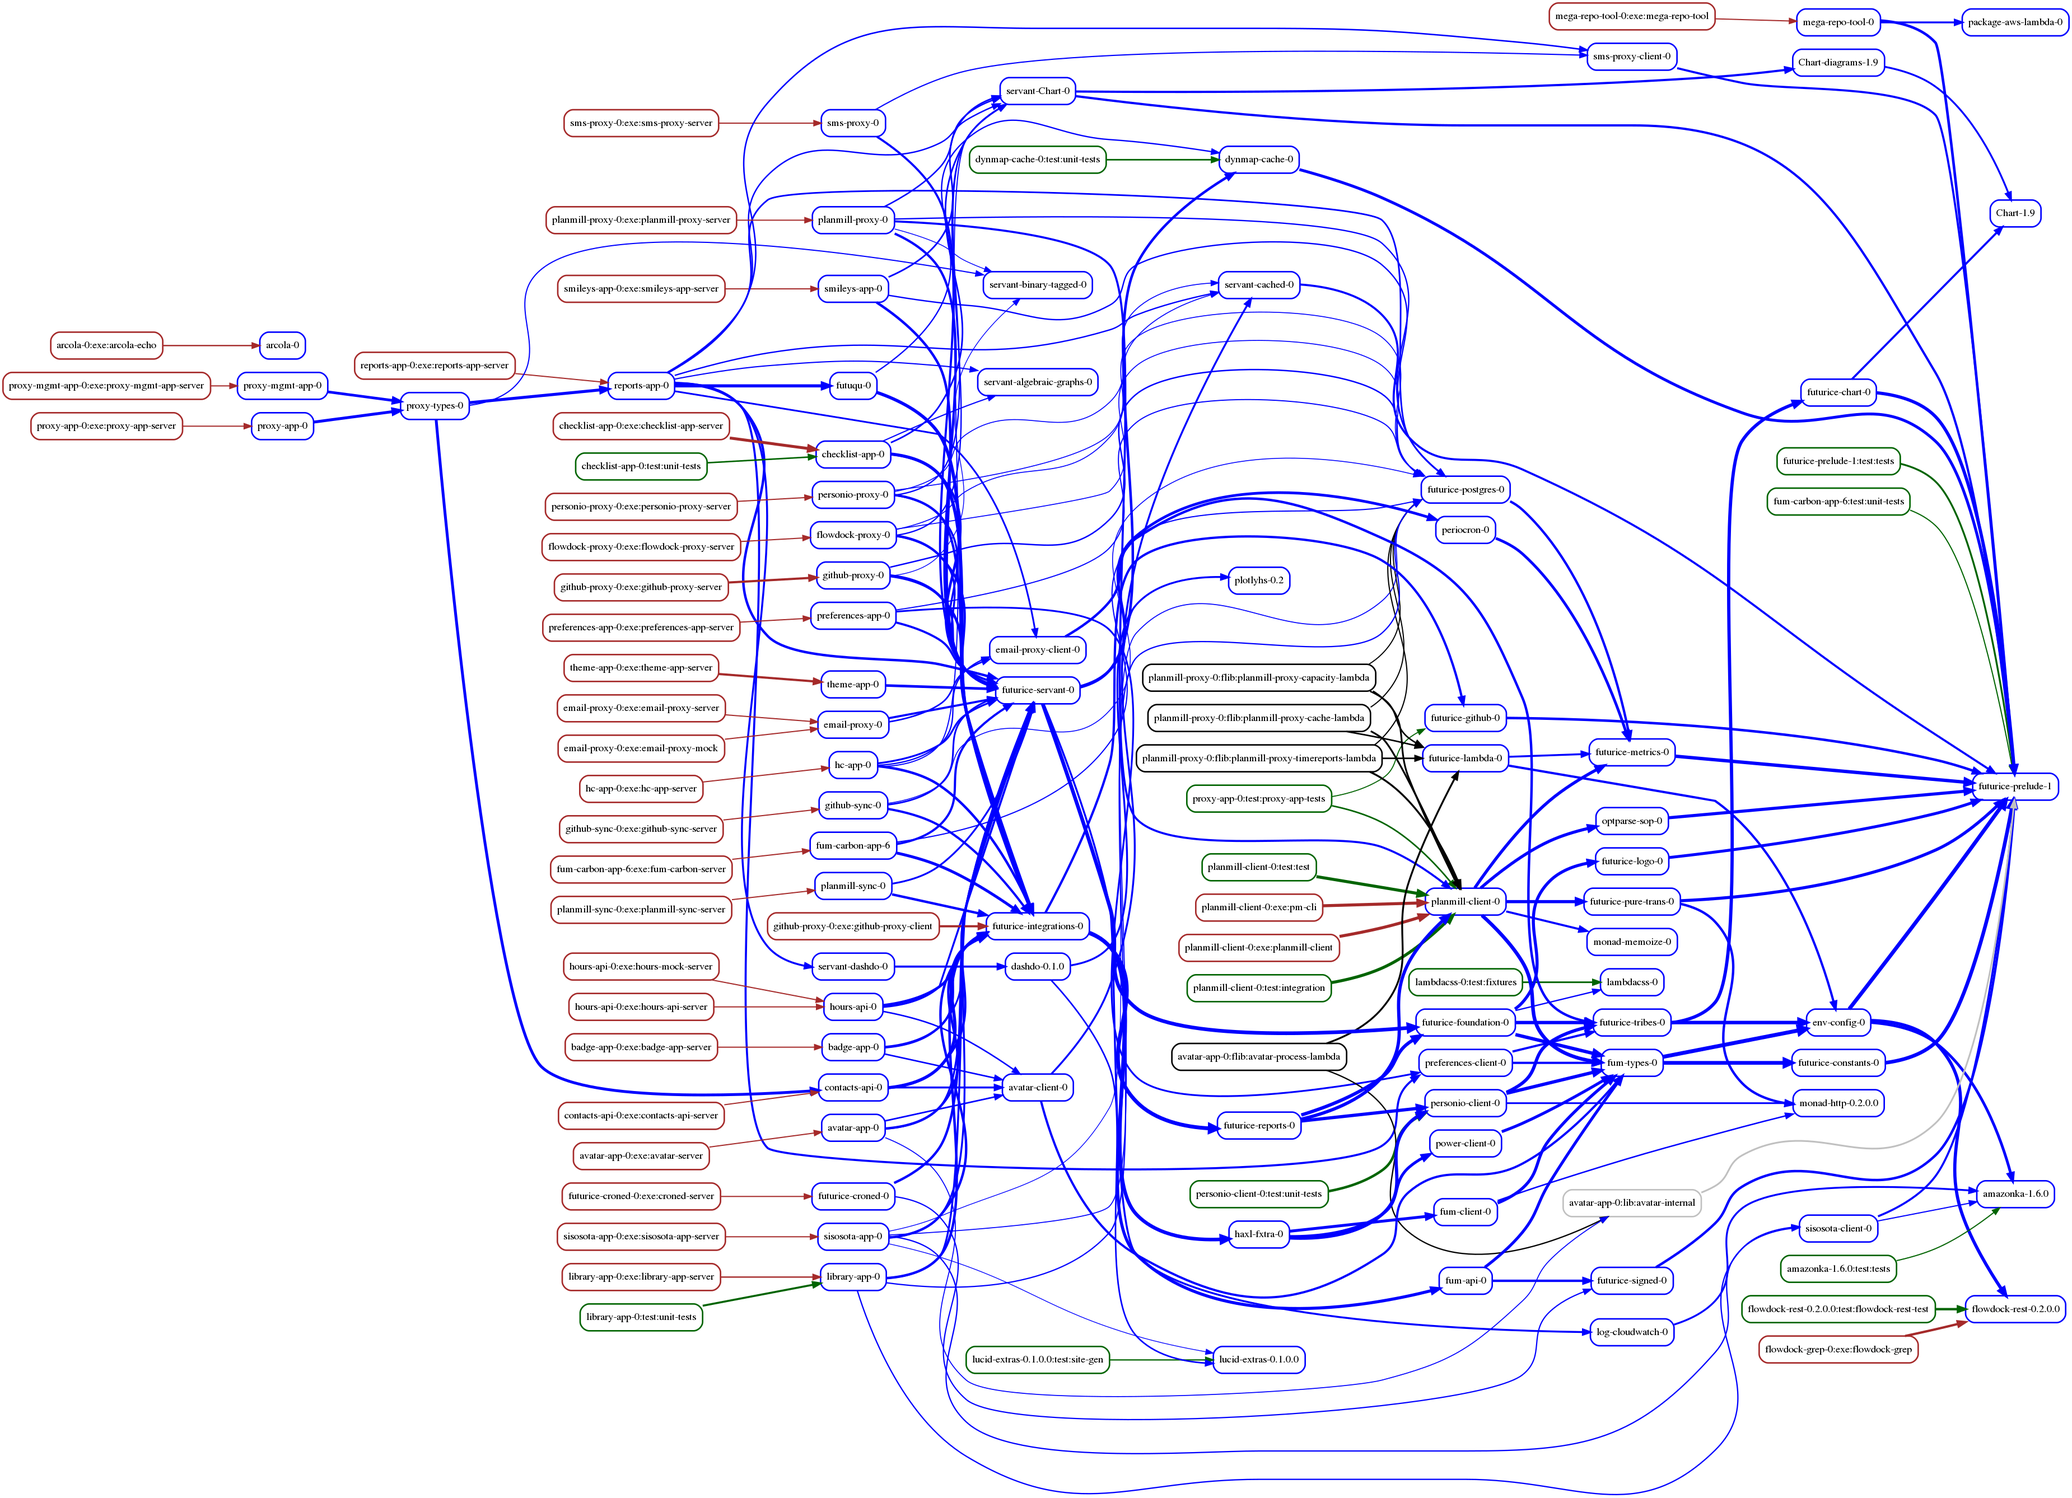
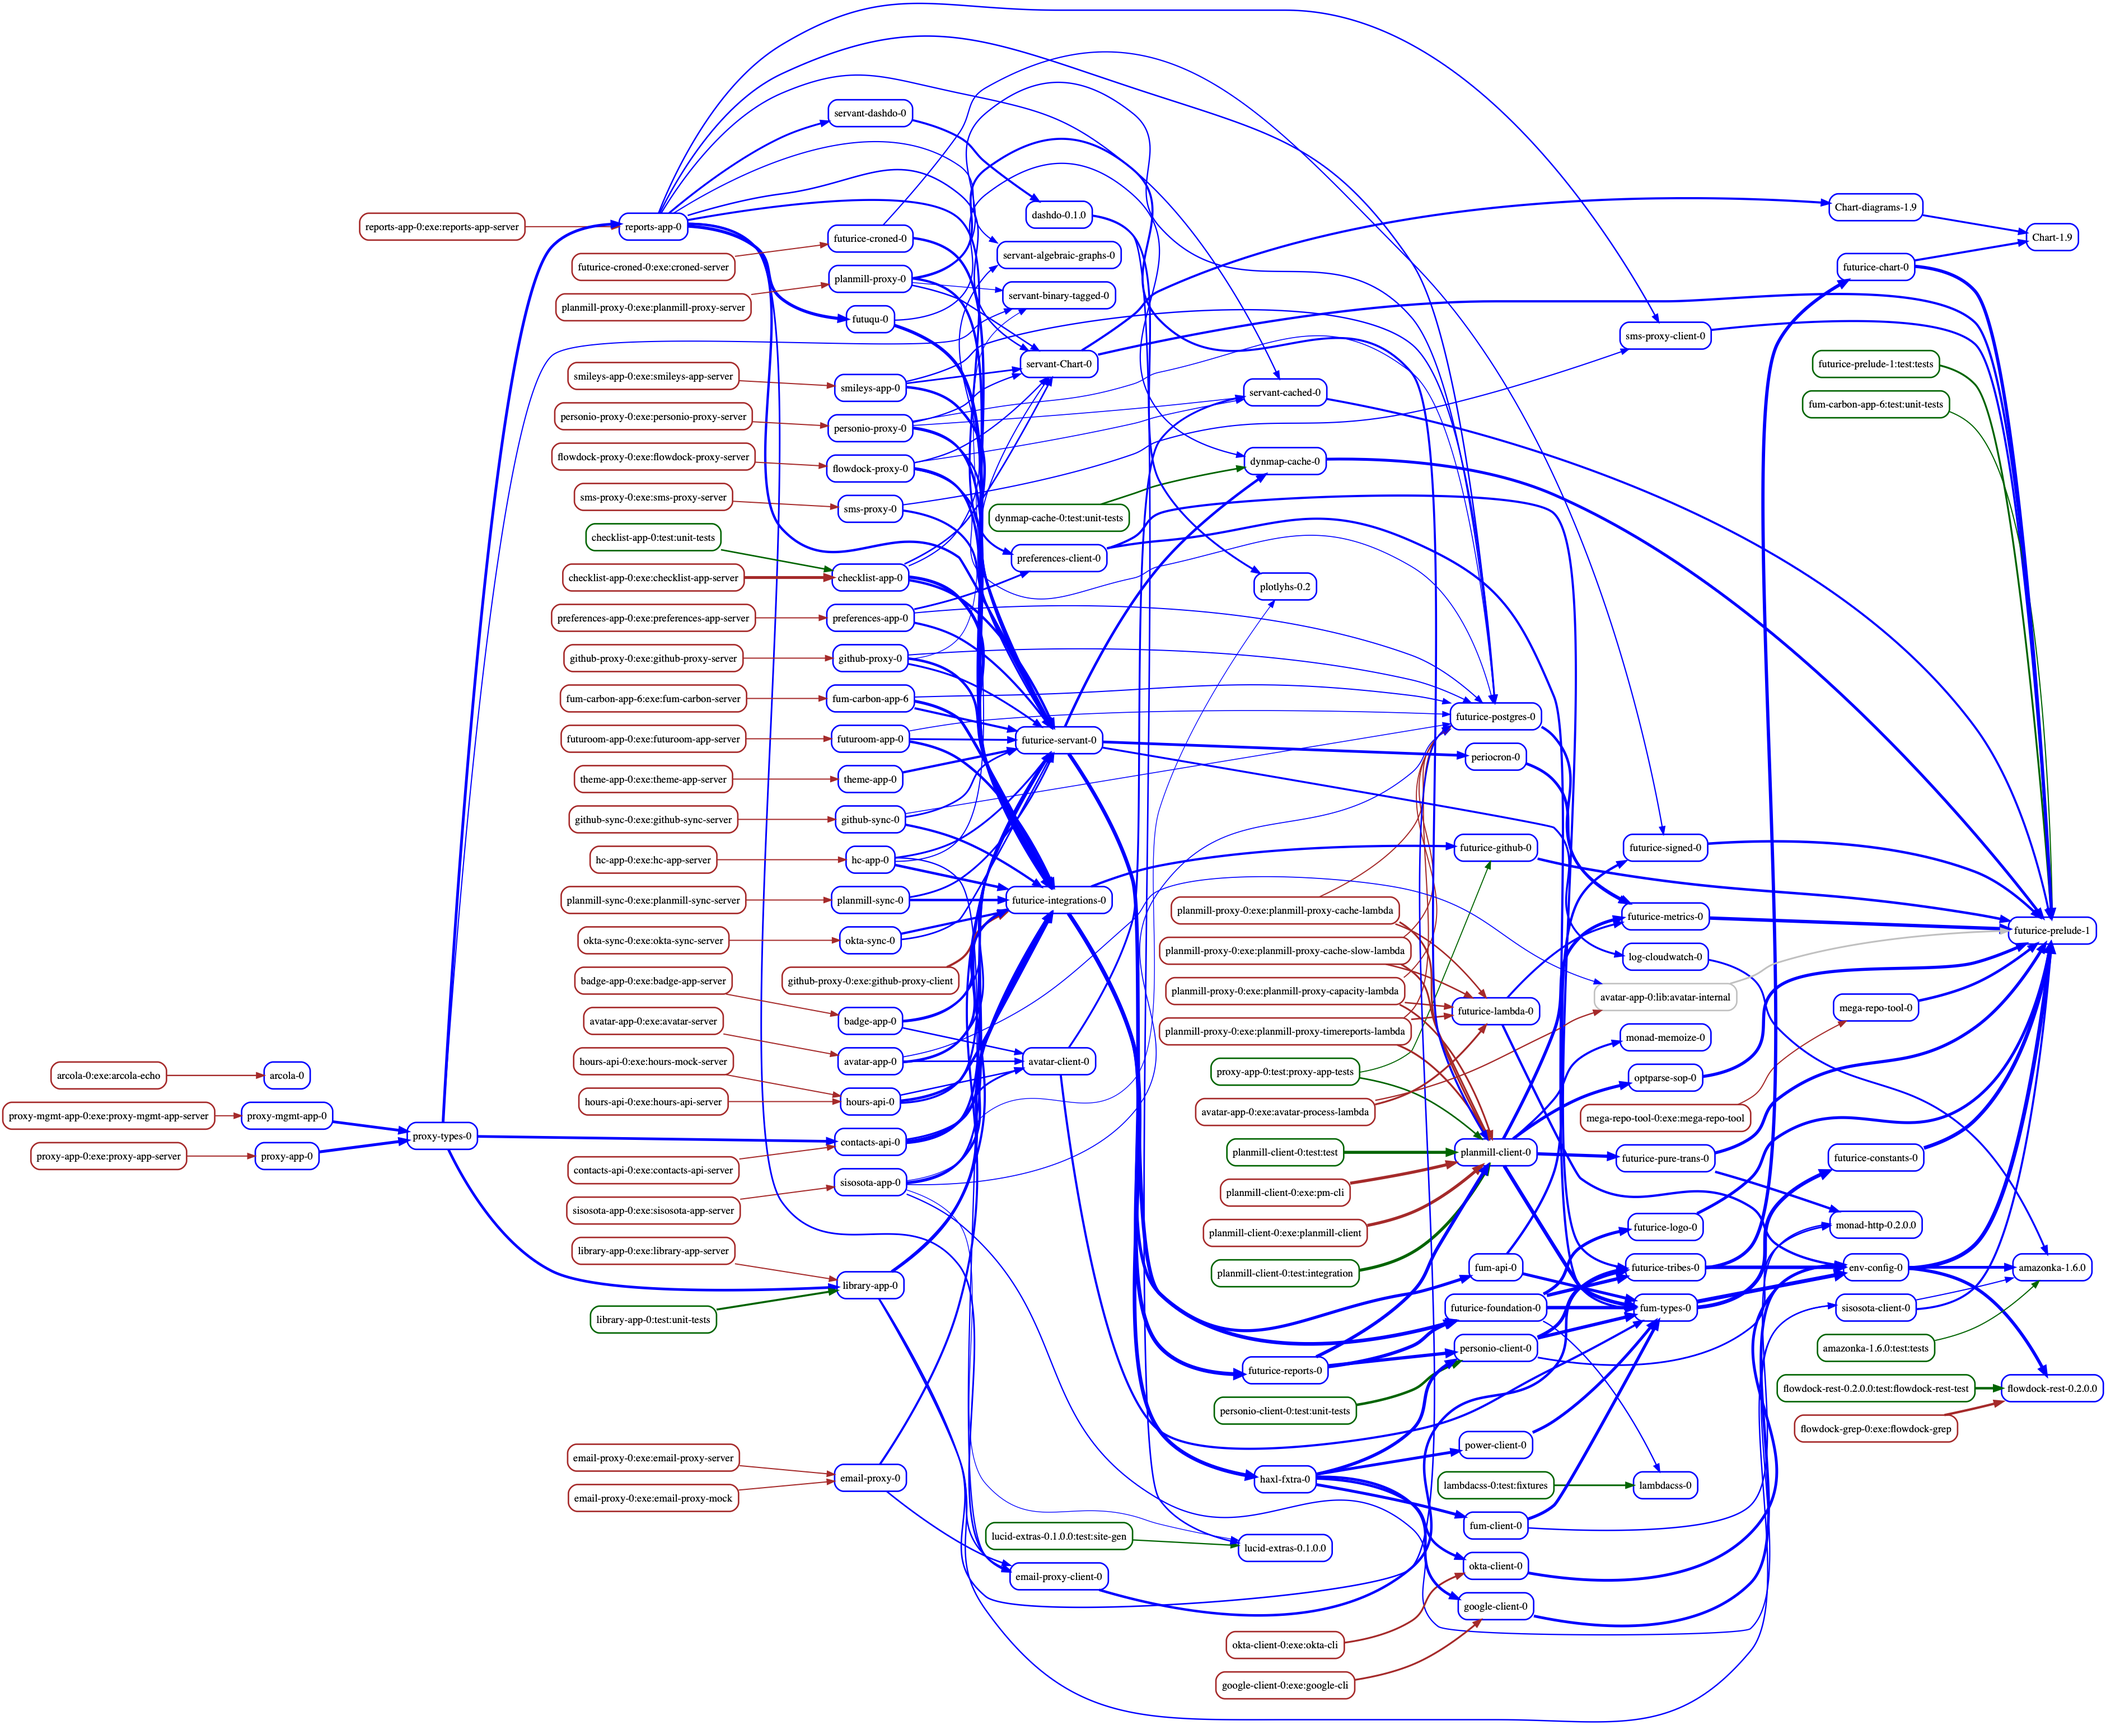
Update deps.png and instruction concerning it

diff --git a/README.md b/README.md
@@ -68,7 +68,7 @@ mega-repo-tool stats
 ### Update deps graph
 
 ```
-mega-repo-tool dot
+make deps.png
 ```
 
 ### LTS version bumps
